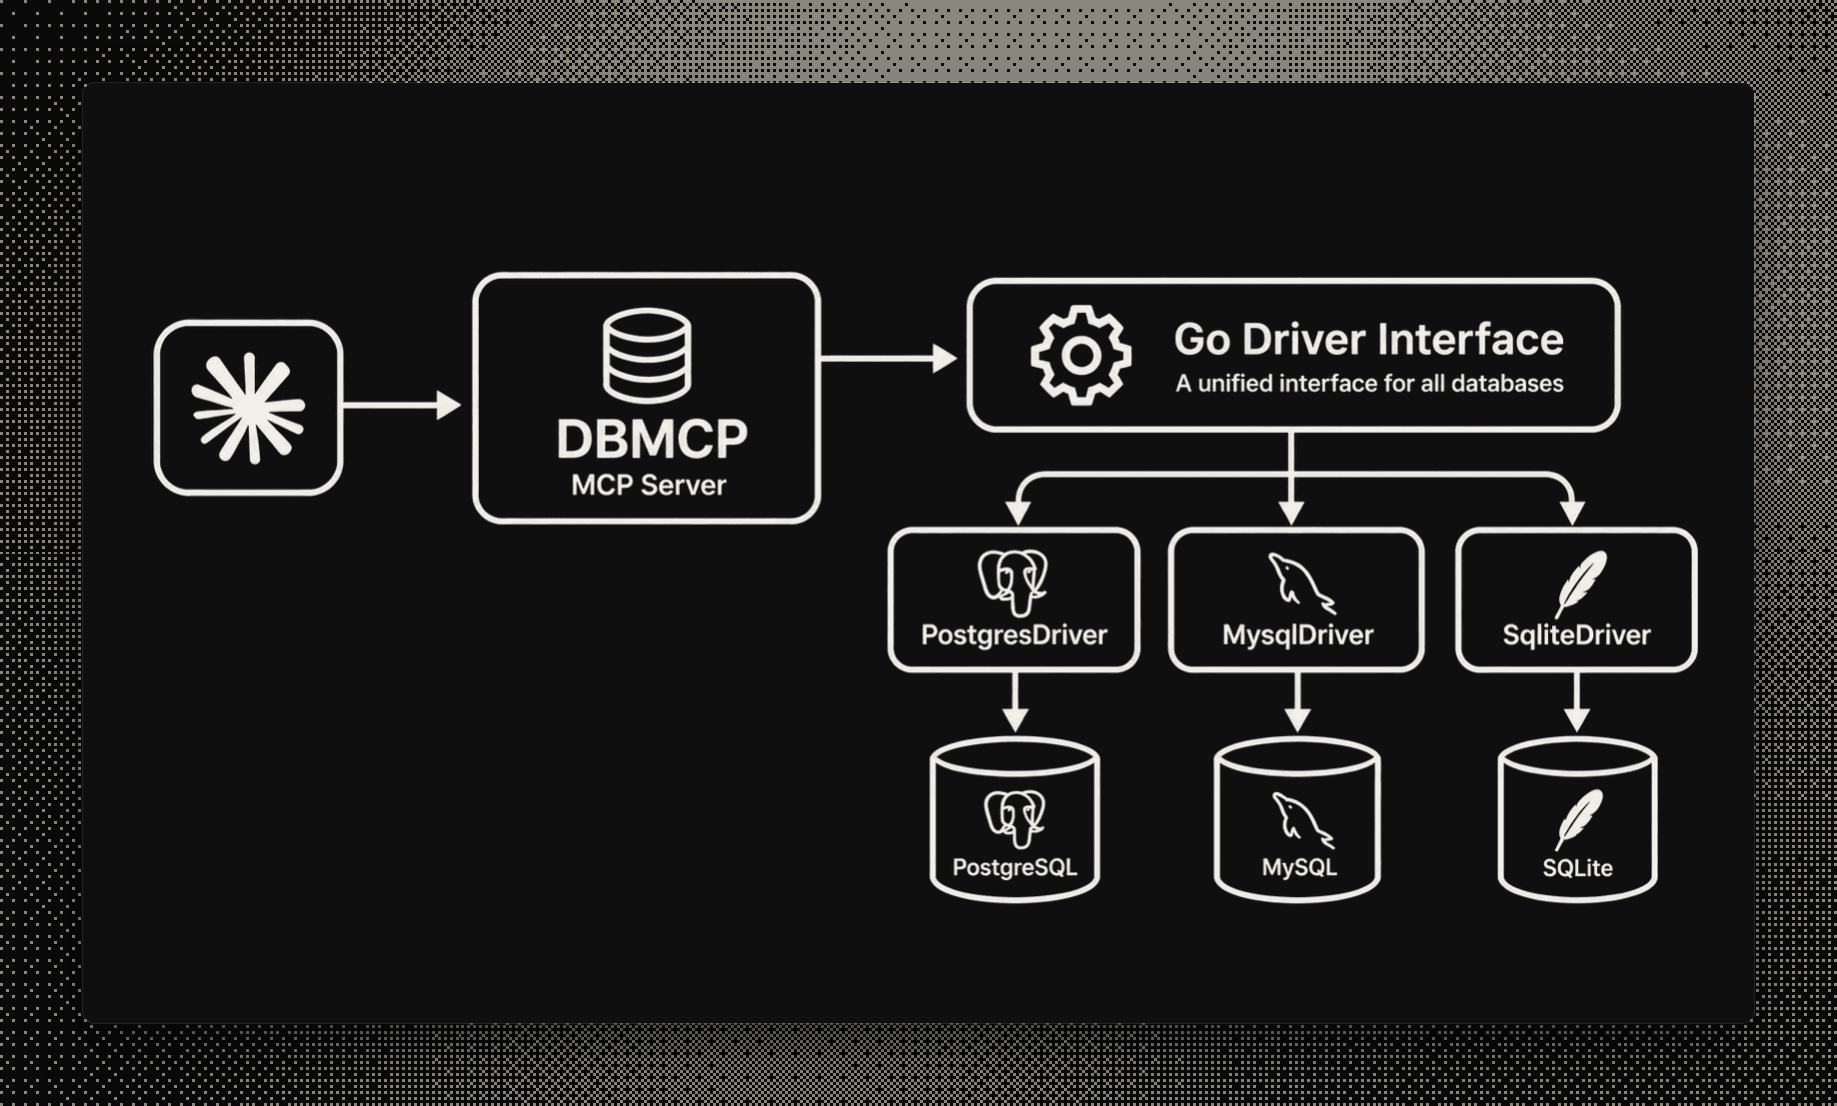
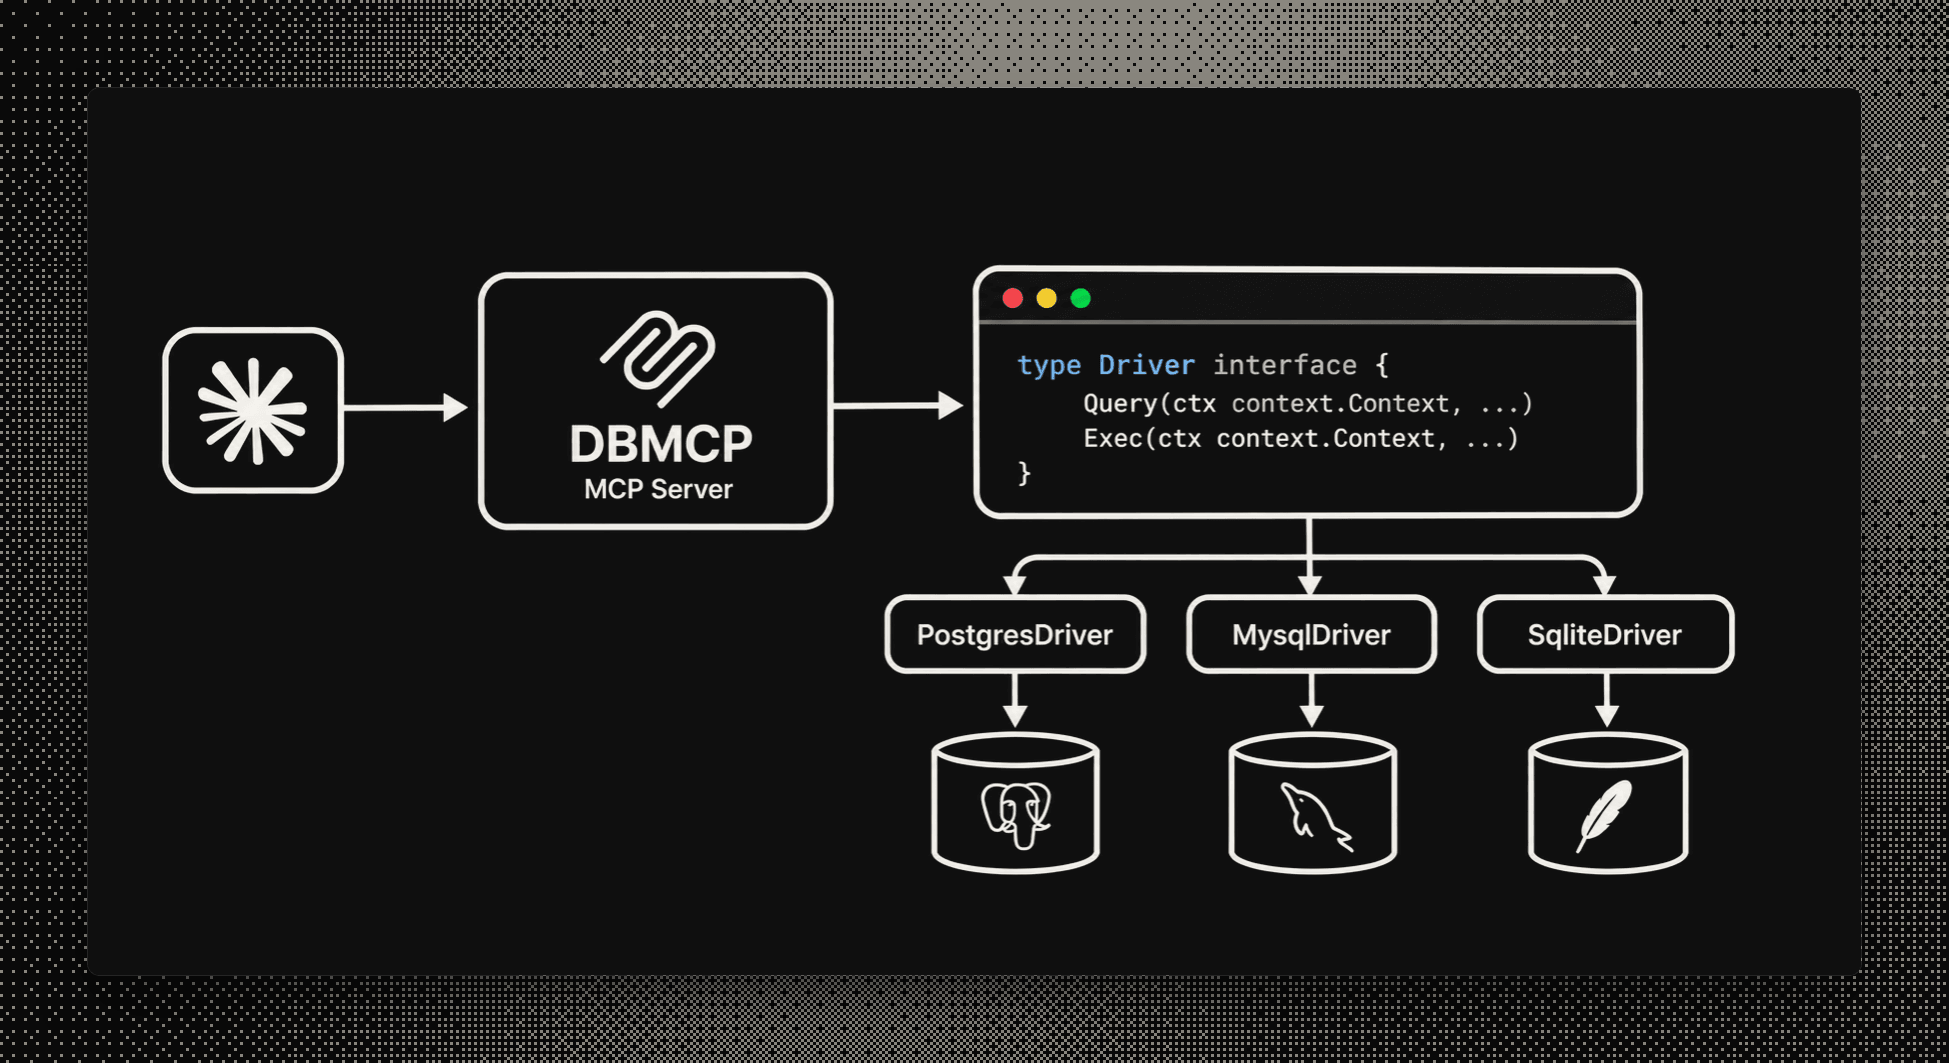
feat: keep code and window colors in blended covers
- Use the new driver interface flowchart as the DBMcp driver post cover
- Make --blend keep the hue of saturated pixels, slightly darkened in the light cover
- Document color handling in AGENTS.md

Changed region(s): [[0.0, 0.0, 1.0, 1.0]]

diff --git a/apps/web/scripts/cover/render.ts b/apps/web/scripts/cover/render.ts
@@ -19,7 +19,7 @@ Options:
   --width <px>       Output width in pixels (default: keeps the screenshot at its native size)
   --padding <px>     Space around the screenshot (default: 4.5% of the width)
   --radius <px>      Corner radius of the screenshot (default: 12)
-  --blend            Recolor a black-and-white image onto the site colors for each tone
+  --blend            Recolor the image onto the site colors for each tone, keeping saturated colors
   --browser <path>   Chrome, Edge or Chromium executable (default: auto-detect, or CHROME_PATH)`;
 
 const { values, positionals } = parseArgs({
@@ -118,24 +118,42 @@ const PAGE_COLORS = {
   light: { background: [250, 249, 246], ink: [28, 27, 25] },
 };
 
+const COLOR_STRENGTH = { dark: 1, light: 0.62 };
+
 async function source(current: (typeof TONES)[number]): Promise<string> {
   if (!values.blend) return screenshot;
   const { background, ink } = PAGE_COLORS[current];
+  const strength = COLOR_STRENGTH[current];
   const target = join(workDir, `source-${current}.png`);
   const { data, info } = await sharp(screenshot)
     .removeAlpha()
-    .grayscale()
+    .toColourspace("srgb")
     .raw()
     .toBuffer({ resolveWithObject: true });
+  const count = info.width * info.height;
+  const stride = info.channels;
+  const gray = new Uint8Array(count);
   const histogram = Array.from({ length: 128 }, () => 0);
-  for (const value of data) if (value < 128) histogram[value]++;
+  for (let index = 0; index < count; index++) {
+    const [r, g, b] = [data[index * stride], data[index * stride + 1], data[index * stride + 2]];
+    gray[index] = Math.round(0.2126 * r + 0.7152 * g + 0.0722 * b);
+    if (gray[index] < 128) histogram[gray[index]]++;
+  }
   const black = histogram.indexOf(Math.max(...histogram)) + 6;
-  const pixels = Buffer.alloc(info.width * info.height * 3);
-  for (let index = 0; index < info.width * info.height; index++) {
-    const level = Math.max(0, (data[index] - black) / (255 - black));
+  const pixels = Buffer.alloc(count * 3);
+  for (let index = 0; index < count; index++) {
+    const rgb = [data[index * stride], data[index * stride + 1], data[index * stride + 2]];
+    const brightest = Math.max(...rgb);
+    const saturation = brightest === 0 ? 0 : (brightest - Math.min(...rgb)) / brightest;
+    const color = Math.min(1, Math.max(0, (saturation - 0.25) / 0.25));
+    const grayLevel = Math.max(0, (gray[index] - black) / (255 - black));
+    const colorLevel = Math.max(0, (brightest - black) / (255 - black));
+    const level = grayLevel + (colorLevel - grayLevel) * color;
     for (let channel = 0; channel < 3; channel++) {
+      const hue = brightest === 0 ? 0 : (rgb[channel] / brightest) * 255 * strength;
+      const tint = ink[channel] + (hue - ink[channel]) * color;
       pixels[index * 3 + channel] = Math.round(
-        background[channel] + (ink[channel] - background[channel]) * level,
+        background[channel] + (tint - background[channel]) * level,
       );
     }
   }

diff --git a/AGENTS.md b/AGENTS.md
@@ -26,7 +26,7 @@ Project pages are written like blog posts: frontmatter holds only metadata (titl
 
 Project and blog covers are an image framed on a monochrome dithered background, in a dark and a light version; `ThemedImage.svelte` shows the one matching the site theme, and `getCover` in `projects.ts` / `posts.ts` finds the light file by its `-light` suffix. `bun run --cwd apps/web cover <screenshot> --out src/content/projects/images/<Name>.png` builds one: `apps/web/scripts/cover/render.ts` fills `scripts/cover/template.html`, has headless Chrome or Edge screenshot it, and saves a palette PNG through sharp. The background is a monochrome Bayer dither of soft blobs, drawn on a canvas in the template: `--tone dark|light` picks the site's dark or light grays, `--cell` sets the size of one dither pixel (default 3), and `--seed` moves the blobs. `--width`, `--padding` and `--radius` tune the frame, and the default width keeps the screenshot at its native size. The browser is found automatically, or set with `--browser` / `CHROME_PATH`. The tones are the `--low` / `--high` CSS variables in the template.
 
-Blog posts can also set an `image` cover (in `images/covers/`) and an `imageAlt` in frontmatter; it shows under the title on the post page and in the home page's Latest Posts, morphing through `post-<slug>-image`. Blog covers go through the same cover script as project covers (`--out apps/web/src/content/blog-posts/images/covers/<slug>.png`), so each has a dark `<slug>.png` and a `<slug>-light.png` that follows the site theme. Blog cover illustrations are black-and-white diagrams, so render them with `--blend`: it treats the image's most common dark value as black, so every source gets the same background, then maps each pixel's brightness onto the site colors, so the dark cover is off-white lines on the card color `#0f0f0f` and the light cover is dark ink on `#faf9f6` (colors in `PAGE_COLORS` in the script). Other screenshots are stored as palette PNG.
+Blog posts can also set an `image` cover (in `images/covers/`) and an `imageAlt` in frontmatter; it shows under the title on the post page and in the home page's Latest Posts, morphing through `post-<slug>-image`. Blog covers go through the same cover script as project covers (`--out apps/web/src/content/blog-posts/images/covers/<slug>.png`), so each has a dark `<slug>.png` and a `<slug>-light.png` that follows the site theme. Blog cover illustrations are black-and-white diagrams, so render them with `--blend`: it treats the image's most common dark value as black, so every source gets the same background, then maps each pixel's brightness onto the site colors, so the dark cover is off-white lines on the card color `#0f0f0f` and the light cover is dark ink on `#faf9f6` (colors in `PAGE_COLORS` in the script). Saturated pixels, like code highlighting or window buttons, keep their hue instead of turning gray, slightly darkened in the light cover (`COLOR_STRENGTH`). Other screenshots are stored as palette PNG.
 
 Blog post images go in `apps/web/src/content/blog-posts/images/` and are referenced with relative paths (`./images/...`), not from `static/`. mdsvex imports them through `@sveltejs/enhanced-img`, and `src/lib/components/markdown/Image.svelte` renders the AVIF/WebP picture with width, height and lazy loading. An image in `static/` gets none of that.
 

diff --git a/apps/web/src/content/blog-posts/04.go-driver-interface-pattern.md b/apps/web/src/content/blog-posts/04.go-driver-interface-pattern.md
@@ -2,7 +2,7 @@
 title: "DBMcp: Refactoring to a Driver Interface"
 description: How I restructured DBMcp's multi-database support, replacing scattered if/else checks with a Go interface so adding a new driver only requires one new file.
 image: ./images/covers/go-driver-interface-pattern.png
-imageAlt: "An AI assistant calling the DBMcp MCP server, which goes through a Go driver interface to a Postgres, MySQL or SQLite driver and on to that database"
+imageAlt: "An AI assistant calling the DBMcp MCP server, which goes through a Go Driver interface with Query and Exec methods to a Postgres, MySQL or SQLite driver and on to that database"
 seoDescription: How DBMcp moved from scattered database type checks to a Go driver interface, so each database's queries live in one file.
 seoKeywords:
   - DBMcp
